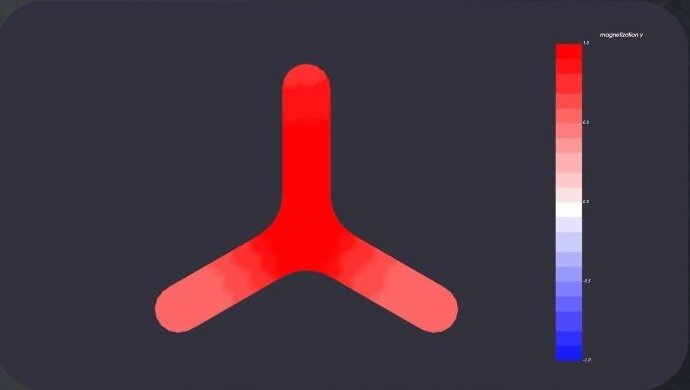
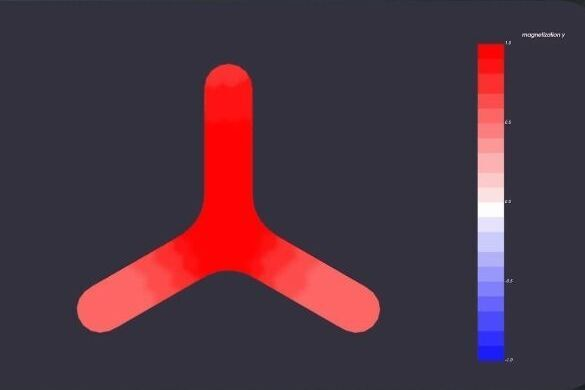
Clean up Progress page

Changed region(s): [[0.1231, 0.1538, 0.6769, 0.8615], [0.8, 0.0615, 0.9538, 0.9538], [0.9538, 0.9538, 1.0, 0.9846]]

diff --git a/src/components/progress/TechnologySection.tsx b/src/components/progress/TechnologySection.tsx
@@ -109,7 +109,7 @@ export default function TechnologySection() {
                 alt="Scanning electron micrograph of the fabricated NML triangle"
                 width={600}
                 height={400}
-                className="w-full h-56 object-cover"
+                className="w-full aspect-[3/2] object-cover"
               />
               <figcaption className="caption-text px-4 py-3 text-left">
                 Patented NML triangle — fabricated at 64 nm
@@ -122,9 +122,9 @@ export default function TechnologySection() {
               <Image
                 src="/progress/nml-simulation.jpg"
                 alt="Micromagnetic simulation of the NML triangle"
-                width={690}
+                width={585}
                 height={390}
-                className="w-full h-56 object-cover"
+                className="w-full aspect-[3/2] object-cover"
               />
               <figcaption className="caption-text px-4 py-3 text-left">
                 NML logic simulation
@@ -134,18 +134,13 @@ export default function TechnologySection() {
 
           <AnimateOnScroll animation="slide-up" delay="delay-300">
             <figure className="gradient-card rounded-lg overflow-hidden hover-card h-full">
-              <div
-                className="h-56 overflow-hidden"
-                style={{ clipPath: 'polygon(11% 0, 100% 0, 100% 100%, 0 100%, 0 13%)' }}
-              >
-                <Image
-                  src="/progress/cleanroom.jpg"
-                  alt="Engineers in cleanroom suits at the Washington Nanofabrication Facility"
-                  width={420}
-                  height={750}
-                  className="w-full h-full object-cover"
-                />
-              </div>
+              <Image
+                src="/progress/cleanroom.jpg"
+                alt="Engineers in cleanroom suits at the Washington Nanofabrication Facility"
+                width={750}
+                height={500}
+                className="w-full aspect-[3/2] object-cover"
+              />
               <figcaption className="caption-text px-4 py-3 text-left">
                 Fabrication at the Washington Nanofabrication Facility (WNF)
               </figcaption>

diff --git a/src/components/progress/FundingSection.tsx b/src/components/progress/FundingSection.tsx
@@ -4,10 +4,12 @@ import { FiArrowRight, FiZap } from 'react-icons/fi';
 import AnimateOnScroll from '../AnimateOnScroll';
 
 const backers = [
-  { logo: '/partners/snocap.png', name: 'SNOCAP', white: true },
-  { logo: '/partners/actuate.png', name: 'Actuate Ventures', white: true },
-  { logo: '/progress/pnw-battery.jpg', name: 'PNW Battery Collaborative', white: false },
-  { logo: '/partners/BetterwayFilled.png', name: 'BetterWay', white: true },
+  // SNOCAP's mark is a two-tone split square (white/black), so it needs a
+  // dark backing tile; the other logos are dark-on-transparent and sit on white.
+  { logo: '/partners/snocap.png', name: 'SNOCAP', dark: true },
+  { logo: '/partners/actuate.png', name: 'Actuate Ventures', dark: false },
+  { logo: '/progress/pnw-battery.jpg', name: 'PNW Battery Collaborative', dark: false },
+  { logo: '/partners/BetterwayFilled.png', name: 'BetterWay', dark: false },
 ];
 
 const outcomeGroups = [
@@ -50,7 +52,7 @@ export default function FundingSection() {
           {backers.map((backer, index) => (
             <AnimateOnScroll key={backer.name} animation="slide-up" delay={(['delay-100', 'delay-200', 'delay-300', 'delay-400'] as const)[index]}>
               <div className="gradient-card rounded-lg hover-card h-full flex flex-col items-center justify-center p-6">
-                <div className="bg-white rounded-md p-3 flex items-center justify-center h-16 w-full mb-3 shadow">
+                <div className={`${backer.dark ? 'bg-gray-800' : 'bg-white'} rounded-md p-3 flex items-center justify-center h-16 w-full mb-3 shadow`}>
                   <Image src={backer.logo} alt={`${backer.name} logo`} width={110} height={40} className="max-h-10 max-w-[80%] object-contain" />
                 </div>
                 <p className="text-gray-400 text-xs text-center">{backer.name}</p>

diff --git a/src/components/progress/RoadmapSection.tsx b/src/components/progress/RoadmapSection.tsx
@@ -1,5 +1,5 @@
 import React from 'react';
-import { FiCheck, FiDollarSign, FiCpu } from 'react-icons/fi';
+import { FiCheck, FiArrowRight, FiCpu } from 'react-icons/fi';
 import AnimateOnScroll from '../AnimateOnScroll';
 
 const phases = [
@@ -35,11 +35,13 @@ export default function RoadmapSection() {
         {/* Headline goal */}
         <AnimateOnScroll animation="scale-up" delay="delay-200">
           <div className="max-w-4xl mx-auto mb-14 bg-gray-900/90 backdrop-blur-md p-8 md:p-10 rounded-xl shadow-2xl border border-emerald-400/20 text-center">
-            <div className="flex items-center justify-center gap-3 mb-2">
-              <FiDollarSign className="text-2xl text-emerald-400" />
-              <span className="font-heading text-2xl md:text-3xl font-bold text-emerald-400">$3M</span>
-              <FiCpu className="text-2xl text-emerald-400" />
-              <span className="font-heading text-2xl md:text-3xl font-bold text-white">1,000 chips</span>
+            <div className="flex items-center justify-center gap-4 mb-2">
+              <span className="font-heading text-3xl md:text-4xl font-bold text-emerald-400">$3M</span>
+              <FiArrowRight className="text-2xl text-emerald-400" />
+              <span className="inline-flex items-center gap-2">
+                <FiCpu className="text-2xl md:text-3xl text-emerald-400" />
+                <span className="font-heading text-3xl md:text-4xl font-bold text-white">1,000 chips</span>
+              </span>
             </div>
             <p className="text-gray-300 text-lg">
               Our next round funds <span className="highlight-text">1,000 fabricated chips in 18 months</span> — the

diff --git a/src/components/progress/ProgressHero.tsx b/src/components/progress/ProgressHero.tsx
@@ -17,11 +17,11 @@ export default function ProgressHero() {
         <div className="bg-gray-900/90 backdrop-blur-md p-8 md:p-12 lg:p-16 rounded-xl shadow-2xl border border-emerald-400/20">
           <AnimateOnScroll animation="scroll-animate">
             <Image
-              src="/trimag-logo-white.png"
+              src="/trimag-logo-white-trimmed.png"
               alt="TriMagnetix™ logo"
-              width={320}
-              height={213}
-              className="h-20 sm:h-28 w-auto mx-auto mb-8"
+              width={1011}
+              height={585}
+              className="h-28 sm:h-40 lg:h-48 w-auto mx-auto mb-8"
               priority
             />
           </AnimateOnScroll>
